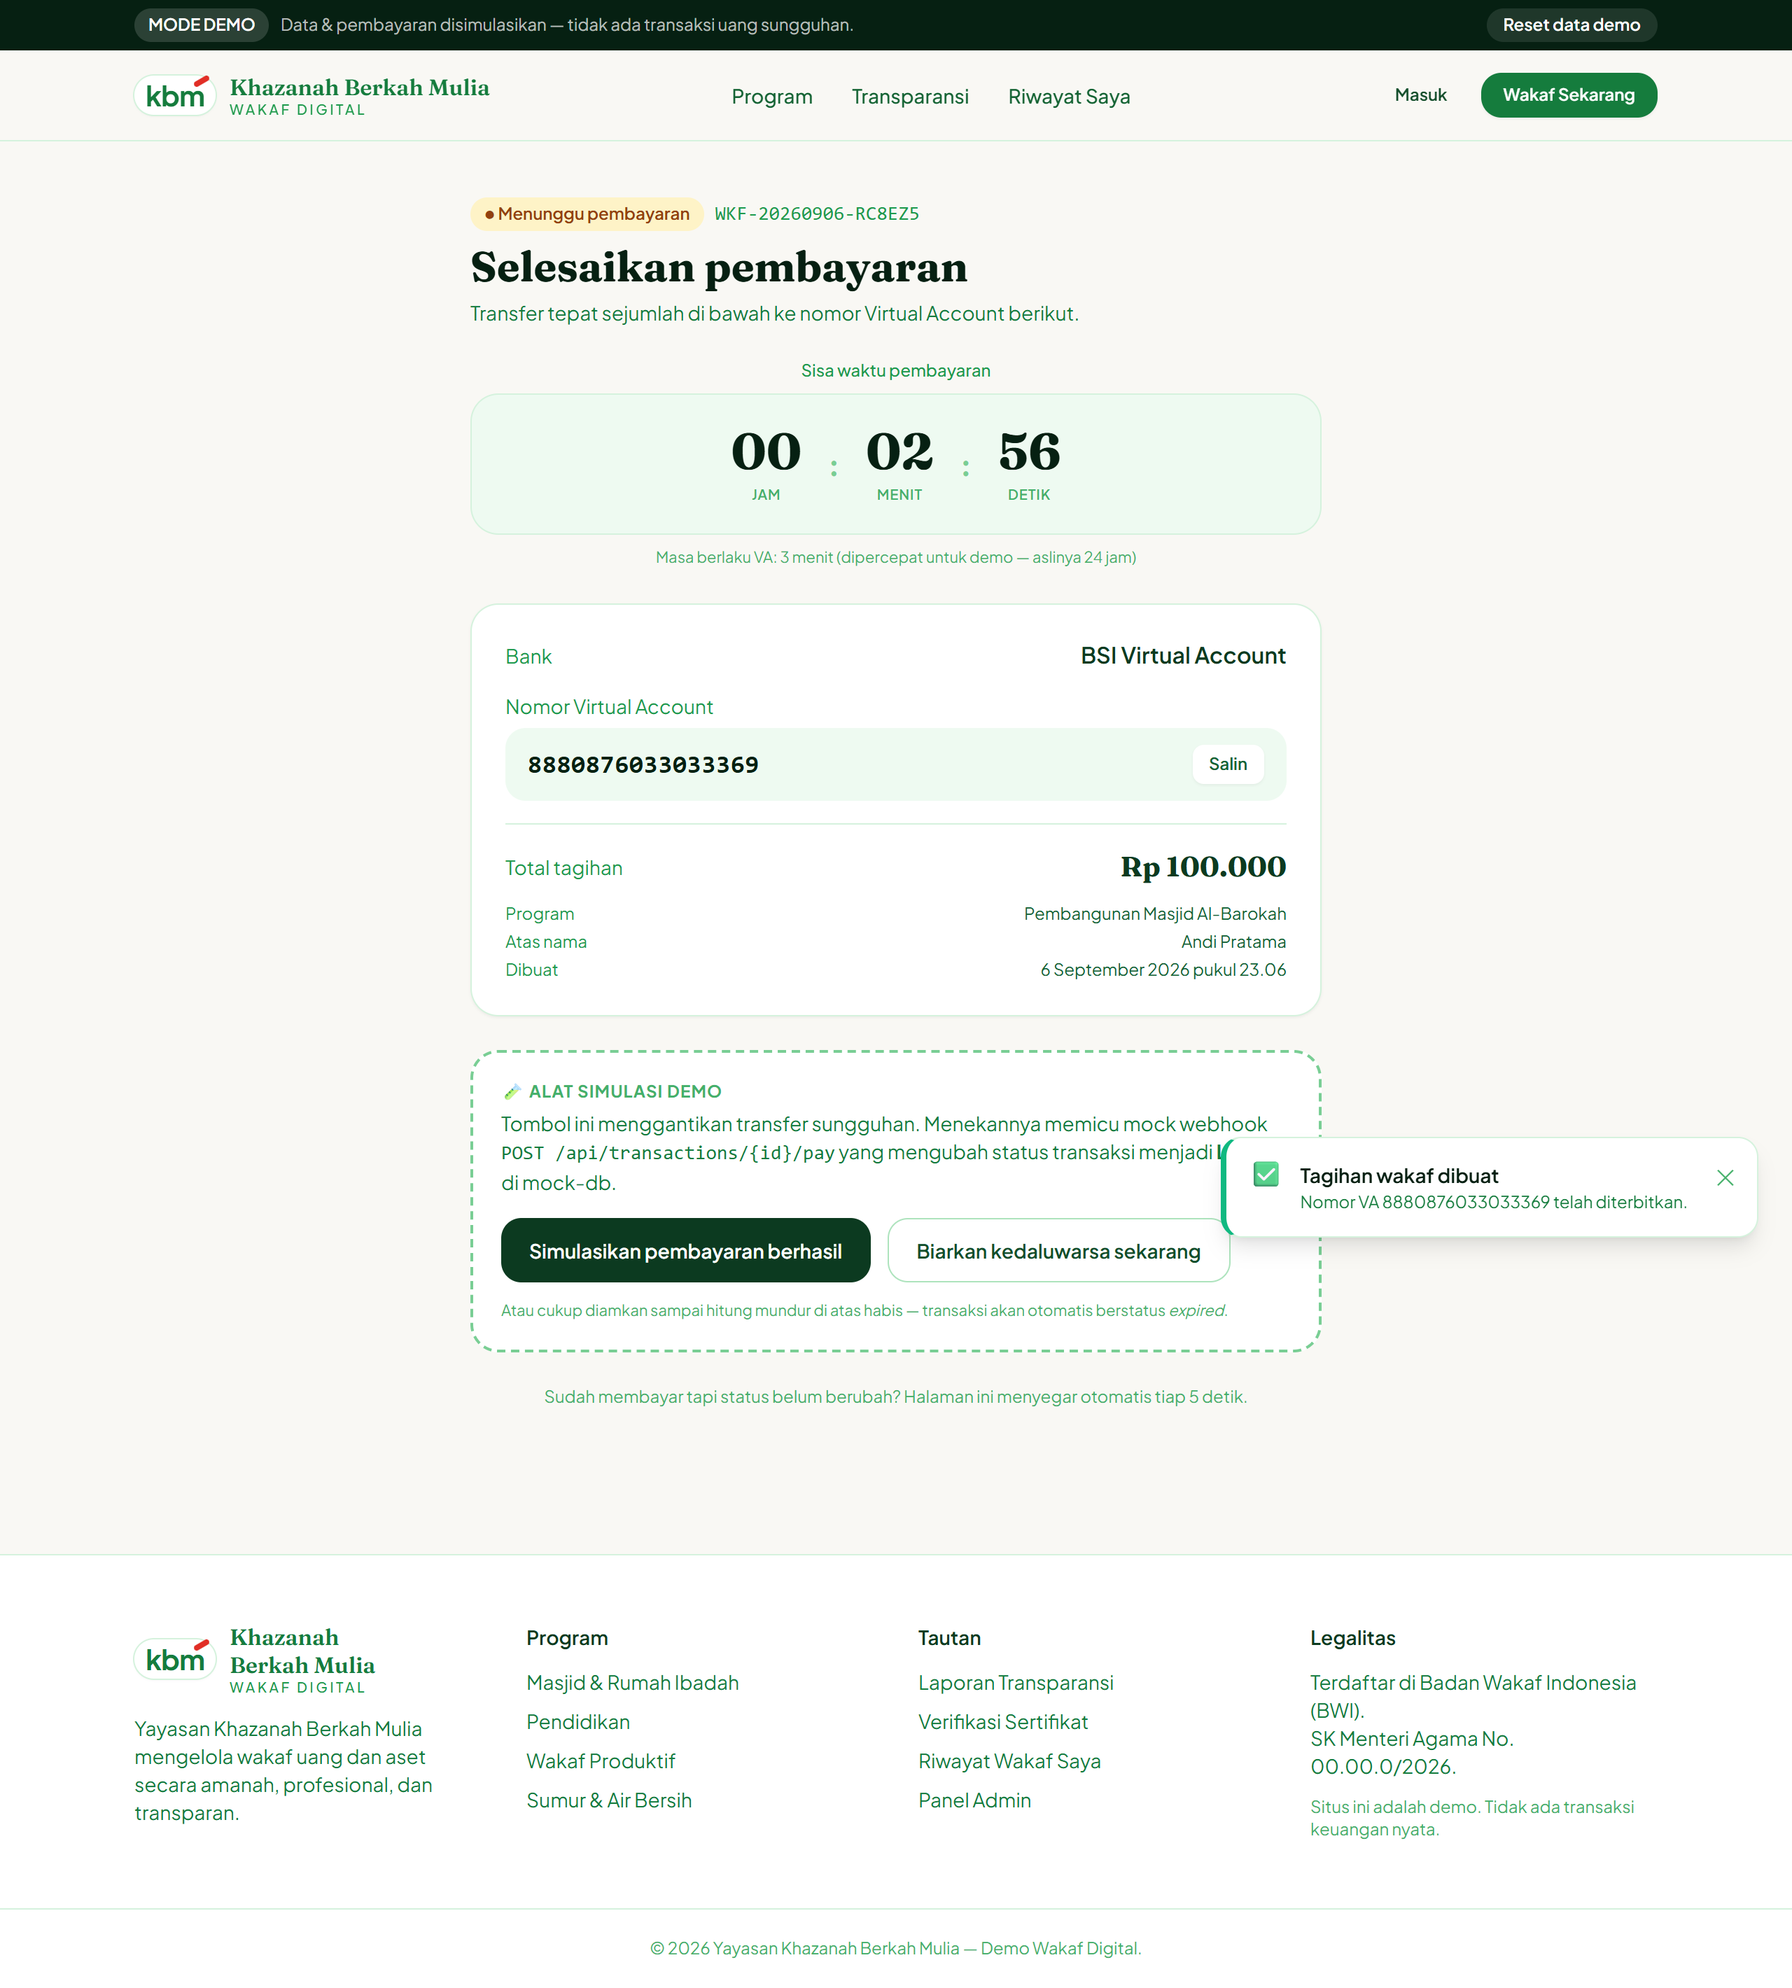
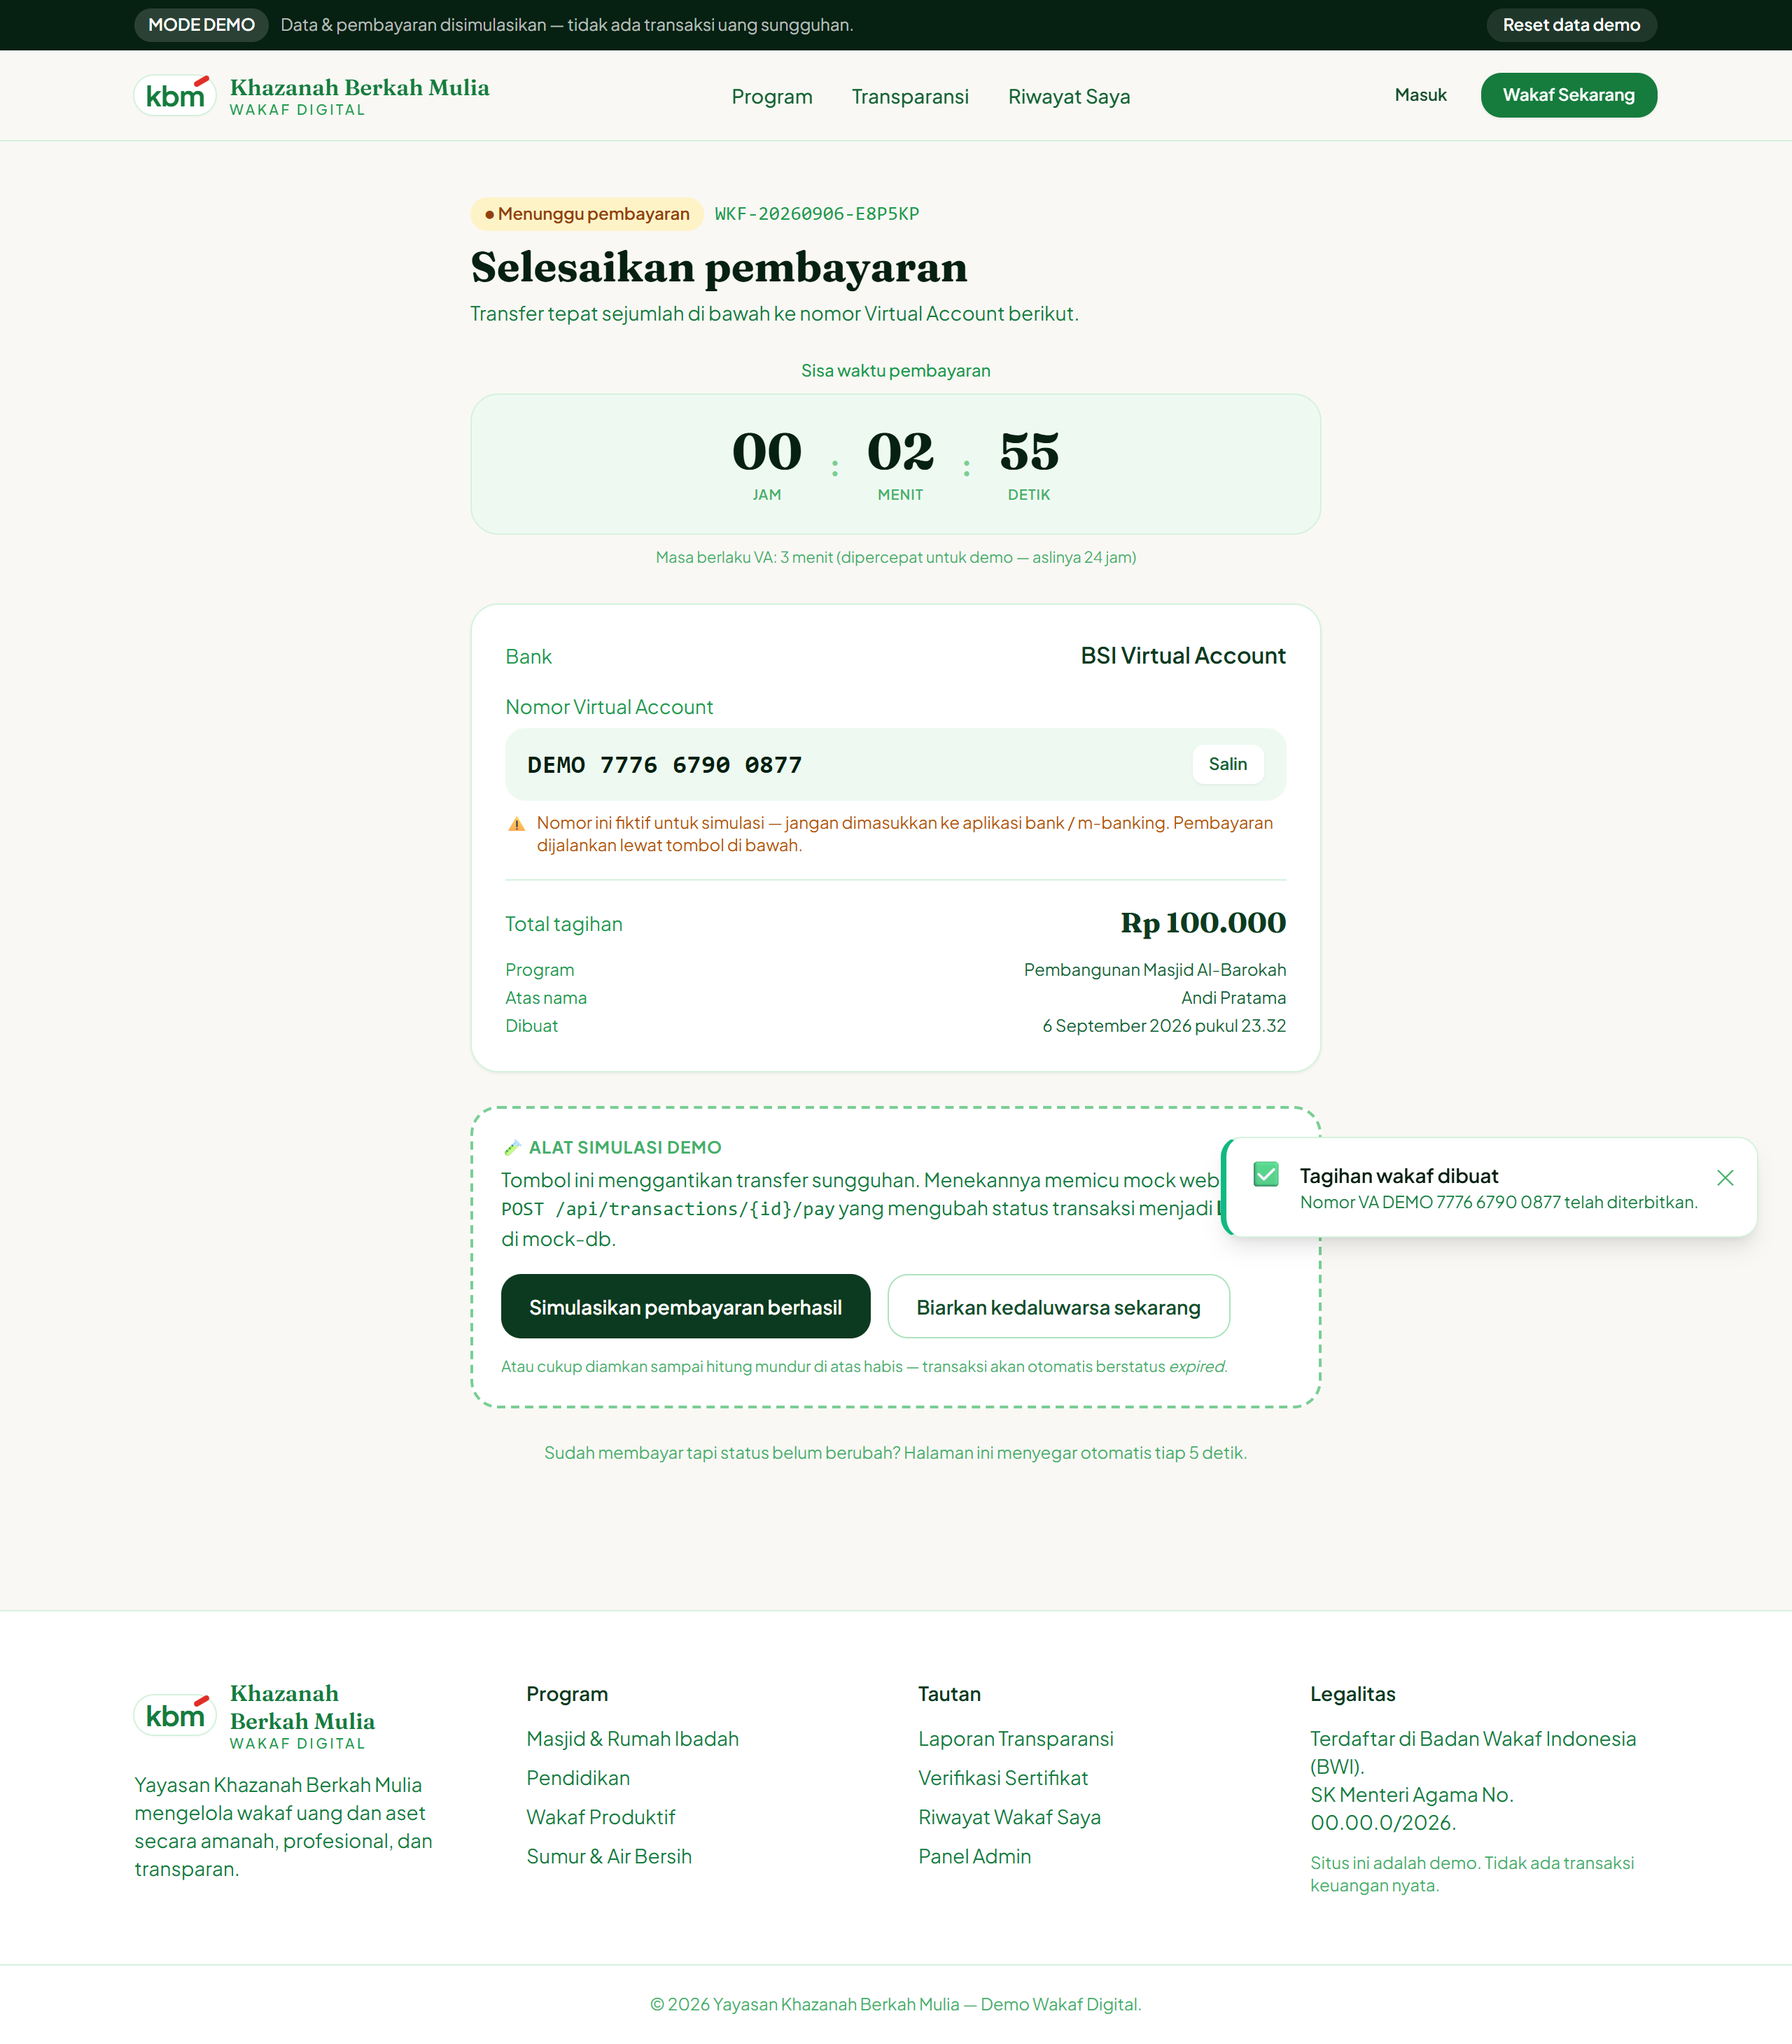
Nomor VA demo diawali "DEMO" agar tidak bisa dibayar sungguhan
Sebelumnya prefix angka "88808" + digit acak ternyata bisa "nyangkut" ke
kode biller/merchant nyata saat dicoba di m-banking (mis. Mandiri) — bahaya
kalau dipakai saat presentasi ke klien.

- makeVaNumber(): format "DEMO 1234 5678 9012" (ada huruf -> field transfer /
  bayar-tagihan aplikasi bank menolaknya)
- seed transaksi: vaNumber ikut diubah ke format DEMO
- payment-waiting: tambah peringatan "nomor fiktif, jangan masukkan ke
  aplikasi bank"
- README: catatan + baris di tabel "disederhanakan untuk demo"

diff --git a/lib/mock-db/seed.ts b/lib/mock-db/seed.ts
@@ -196,7 +196,7 @@ export const SEED_TRANSACTIONS: Transaction[] = [
     atasNama: "sendiri",
     visibilitas: "publik",
     doa: "Semoga menjadi amal jariyah yang tak terputus.",
-    vaNumber: "8880812345670012",
+    vaNumber: "DEMO 1234 5670 0120",
     bank: "BSI",
     status: "paid",
     createdAt: "2026-07-10T03:10:00.000Z",
@@ -219,7 +219,7 @@ export const SEED_TRANSACTIONS: Transaction[] = [
     namaAtasNama: "Almh. Hj. Rukmini",
     visibilitas: "anonim",
     doa: "Untuk almarhumah ibunda tercinta.",
-    vaNumber: "8880898765430021",
+    vaNumber: "DEMO 9876 5430 0210",
     bank: "Mandiri",
     status: "paid",
     createdAt: "2026-07-22T06:40:00.000Z",
@@ -240,7 +240,7 @@ export const SEED_TRANSACTIONS: Transaction[] = [
     teleponWakif: "081234567003",
     atasNama: "sendiri",
     visibilitas: "publik",
-    vaNumber: "8880811223340031",
+    vaNumber: "DEMO 1122 3340 0310",
     bank: "BCA",
     status: "paid",
     createdAt: "2026-08-05T01:15:00.000Z",
@@ -262,7 +262,7 @@ export const SEED_TRANSACTIONS: Transaction[] = [
     atasNama: "sendiri",
     visibilitas: "publik",
     doa: "Semoga jamaah selalu diberi keberkahan rezeki.",
-    vaNumber: "8880855667780041",
+    vaNumber: "DEMO 5566 7780 0410",
     bank: "BNI",
     status: "paid",
     createdAt: "2026-08-19T08:05:00.000Z",

diff --git a/lib/mock-db/index.ts b/lib/mock-db/index.ts
@@ -87,13 +87,23 @@ export function makeTransactionId(): string {
 }
 
 /**
- * Nomor Virtual Account mock — format realistis:
- * prefix "88808" (kode biller demo) + 11 digit acak. Total 16 digit.
+ * Nomor Virtual Account TIRUAN untuk demo.
+ *
+ * PENTING: sengaja diawali huruf ("DEMO") supaya TIDAK BISA dimasukkan ke
+ * field transfer / bayar-tagihan aplikasi bank manapun. Sebelumnya prefix
+ * angka "88808" dipakai dan ternyata bentrok dengan kode biller nyata
+ * (nomor acak bisa "nyangkut" ke merchant sungguhan di m-banking). Jangan
+ * kembalikan ke format angka murni selama masih pakai simulasi pembayaran.
+ *
+ * Contoh keluaran: "DEMO 4830 5567 1029"
  */
 export function makeVaNumber(): string {
   let digits = "";
-  for (let i = 0; i < 11; i++) digits += Math.floor(Math.random() * 10).toString();
-  return `88808${digits}`;
+  for (let i = 0; i < 12; i++) {
+    digits += Math.floor(Math.random() * 10).toString();
+    if (i % 4 === 3 && i !== 11) digits += " ";
+  }
+  return `DEMO ${digits}`;
 }
 
 function slugify(s: string): string {

diff --git a/components/payment-waiting.tsx b/components/payment-waiting.tsx
@@ -218,6 +218,13 @@ export function PaymentWaiting({ txId }: { txId: string }) {
               {copied ? "Tersalin ✓" : "Salin"}
             </button>
           </div>
+          {/* Nomor VA di demo ini fiktif & diawali "DEMO" agar tidak bisa
+              dipakai di aplikasi bank sungguhan. Lihat lib/mock-db -> makeVaNumber. */}
+          <p className="mt-2 flex items-start gap-1.5 text-xs text-amber-700">
+            <span aria-hidden>⚠</span>
+            Nomor ini fiktif untuk simulasi — jangan dimasukkan ke aplikasi bank
+            / m-banking. Pembayaran dijalankan lewat tombol di bawah.
+          </p>
         </div>
         <div className="mt-4 flex items-center justify-between border-t border-brand-100 pt-4">
           <span className="text-sm text-brand-500">Total tagihan</span>

diff --git a/README.md b/README.md
@@ -29,7 +29,8 @@ npm run build && npm start
 
 1. **Browse & filter** — `/program`: 6 program, filter kategori + pencarian kata kunci.
 2. **Flow wakaf penuh** — buka satu program → isi form (validasi jalan) → terbit
-   transaksi + nomor Virtual Account mock (`88808…`).
+   transaksi + nomor Virtual Account tiruan (diawali `DEMO …` — sengaja
+   memakai huruf agar tidak bisa dimasukkan ke aplikasi bank sungguhan).
 3. **Menunggu pembayaran** — `/wakaf/[id]`: countdown mundur **benar-benar jalan**.
    - Tombol **"Simulasikan pembayaran berhasil"** → memicu mock webhook
      `POST /api/transactions/[id]/pay` → status `paid` → redirect ke halaman sukses.
@@ -145,6 +146,7 @@ Semua ditandai komentar di kode. Ringkasnya:
 | `lib/config.ts` → `VA_TTL_MS` | Masa berlaku VA **3 menit** | Kembalikan ke 24 jam |
 | `lib/api/server.ts` → `mockLatency()` | Delay 500–1500ms tiap request | Hapus |
 | `lib/mock-db/` | Store di memori proses | Database sungguhan (Prisma/Drizzle) |
+| `lib/mock-db/` → `makeVaNumber()` | Nomor VA tiruan diawali `DEMO ` (tidak bisa dibayar) | VA asli dari payment gateway (Midtrans/Xendit) |
 | `app/api/transactions/[id]/pay` | Webhook dipicu tombol | Callback + verifikasi signature dari payment gateway |
 | `app/api/transactions/[id]/expire` | Expiry di-set dari browser | Job terjadwal / callback gateway |
 | `app/api/auth/*` | 1 akun admin hardcode; OTP wakif selalu `123456` | User store + hash + sesi ber-token + OTP asli |
